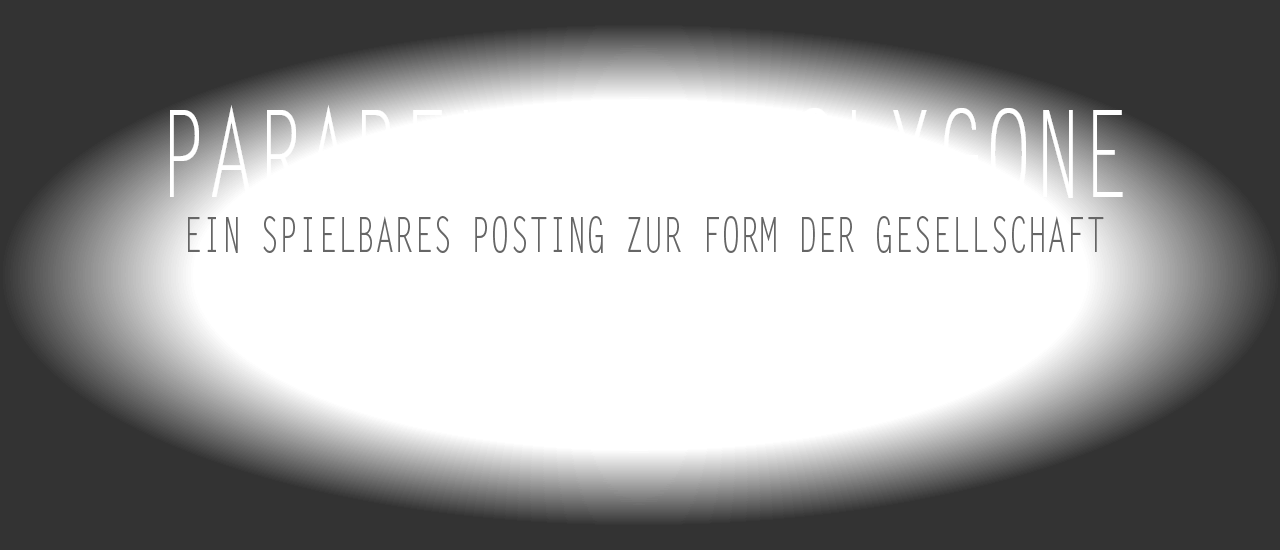
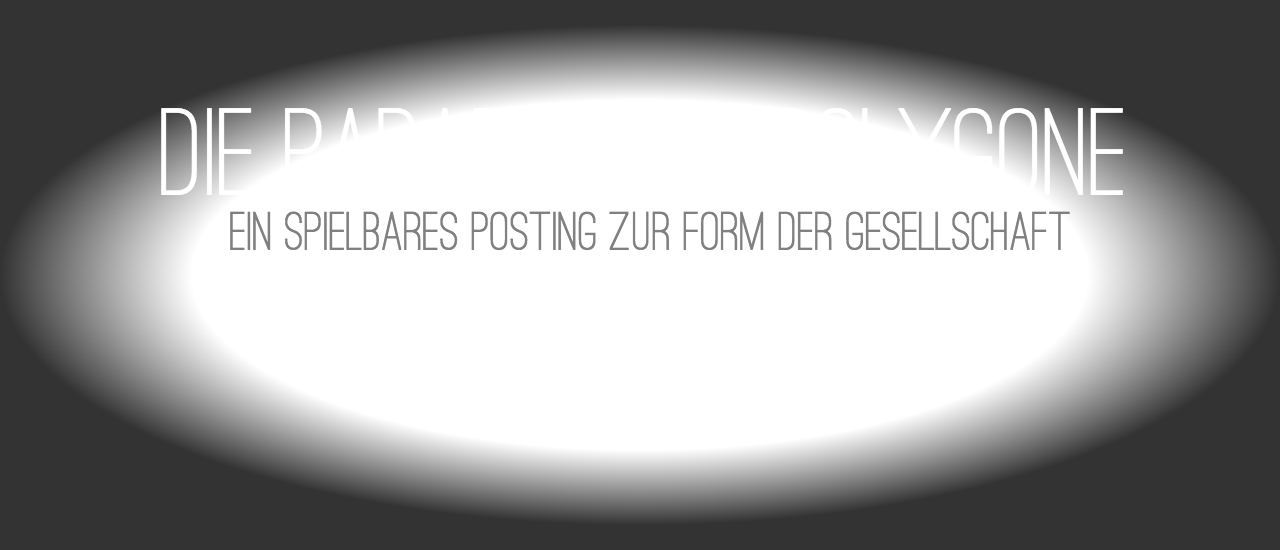
Translate images

Changed region(s): [[0.125, 0.1855, 0.875, 0.4636]]

diff --git a/translator/translator.html b/translator/translator.html
@@ -96,7 +96,7 @@
         <span class="ostrich-light">Ostrich Sans Light</span> by the
         <a href="https://www.theleagueofmoveabletype.com/ostrich-sans">League of Movable Type</a>.</p>
 
-    <img src="../play/intro/intro_banner.png"></img>
+    <img src="../../polygons/play/intro/intro_banner.png"></img>
     <script>
         draw(function(ctx) {
             var gradient = ctx.createRadialGradient(0.5, 0.5, 0.35, 0.5, 0.5, 0.5);
@@ -108,46 +108,57 @@
                 ctx.fillStyle = gradient;
                 ctx.fillRect(0, -0.1, 1, 1.2);
             ctx.restore();
-            putText(ctx, 160, 195, 128, "white", "Ostrich Sans", "Parable of the Polygons");
-            putText(ctx, 290, 250, 56, "gray", "Ostrich Sans", "A Playable Post on the Shape of Society");
+            putText(ctx, 160, 195, 128, "white", "Ostrich Sans", "Die Parabel der Polygone");
+            putText(ctx, 230, 250, 56, "gray", "Ostrich Sans", "Ein spielbares Posting zur Form der Gesellschaft");
         })
     </script>
 
-    <img src="../play/mini/dragging.png"></img>
+    <img src="../../polygons/play/mini/dragging.png"></img>
     <script>
         draw(function(ctx, img) {
             ctx.drawImage(img, 0, 0);
             for (var y = 100; y < 200; y += 80)
-                tapeRect(ctx, 220, y, 340, 60);
-            putText(ctx, 246, 156, 50, "#aaa", "Ostrich Sans Black", "Drag & Drop the");
-            putText(ctx, 250, 218, 44, "#aaa", "Ostrich Sans Black", "Unhappy Polygons");
+                tapeRect(ctx, 210, y, 370, 60);
+            putText(ctx, 270, 156, 46, "#aaa", "Ostrich Sans Black", "Verschiebe die");
+            putText(ctx, 222, 218, 40, "#aaa", "Ostrich Sans Black", "unzufriedenen Polygone");
         })
     </script>
 
-    <img src="../play/img/ui_buttons.png"></img>
+    <img src="../../polygons/play/img/new_board.png"></img>
     <script>
         draw(function(ctx, img) {
             ctx.drawImage(img, 0, 0);
-            for (var y = 6; y < 408; y += 52)
-                tapeRect(ctx, 56, y, 133, 34);
+            for (var y = 4; y < 100; y += 60)
+                tapeRect(ctx, 56, y, 163, 45);
+            for (var y = 43; y < 150; y += 60)
+                putText(ctx, 80, y, 48, "#fff", "Ostrich Sans Light", "Neustart");
+        })
+    </script>
+
+    <img src="../../polygons/play/img/ui_buttons.png"></img>
+    <script>
+        draw(function(ctx, img) {
+            ctx.drawImage(img, 0, 0);
+            for (var y = 4; y < 408; y += 52)
+                tapeRect(ctx, 50, y, 140, 40);
             for (var y = 38; y < 200; y += 52)
-                putText(ctx, 58, y, 42, "#fff", "Ostrich Sans Light", "New Board");
+                putText(ctx, 70, y, 42, "#fff", "Ostrich Sans Light", "Neustart");
             for (var y = 245; y < 300; y += 52)
-                putText(ctx, 58, y, 36, "#fff", "Ostrich Sans Light", "Start Movin'");
+                putText(ctx, 65, y, 44, "#fff", "Ostrich Sans Light", "Los geht's");
             for (var y = 350; y < 450; y += 52)
-                putText(ctx, 58, y, 41, "#fff", "Ostrich Sans Light", "Stop Movin'");
+                putText(ctx, 65, y, 44, "#fff", "Ostrich Sans Light", "Anhalten");
         })
     </script>
 
-    <img src="../play/img/stats.png"></img>
+    <img src="../../polygons/play/img/stats.png"></img>
     <script>
         draw(function(ctx, img) {
             ctx.drawImage(img, 0, 0);
-            tapeRect(ctx, 5, 164, 20, 105);
-            tapeRect(ctx, 30, 275, 40, 18);
-            putText(ctx, 35, 293, 20, "#666", "Ostrich Sans Black", "Time");
+            tapeRect(ctx, 5, 165, 20, 100);
+            tapeRect(ctx, 30, 275, 40, 22);
+            putText(ctx, 35, 293, 20, "#666", "Ostrich Sans Black", "Zeit");
             ctx.rotate(Math.PI/-2);
-            putText(ctx, -260, 22, 20, "#666", "Ostrich Sans Black", "Segregation");
+            putText(ctx, -260, 24, 24, "#666", "Ostrich Sans Black", "Trennung");
         })
     </script>
 </body>
